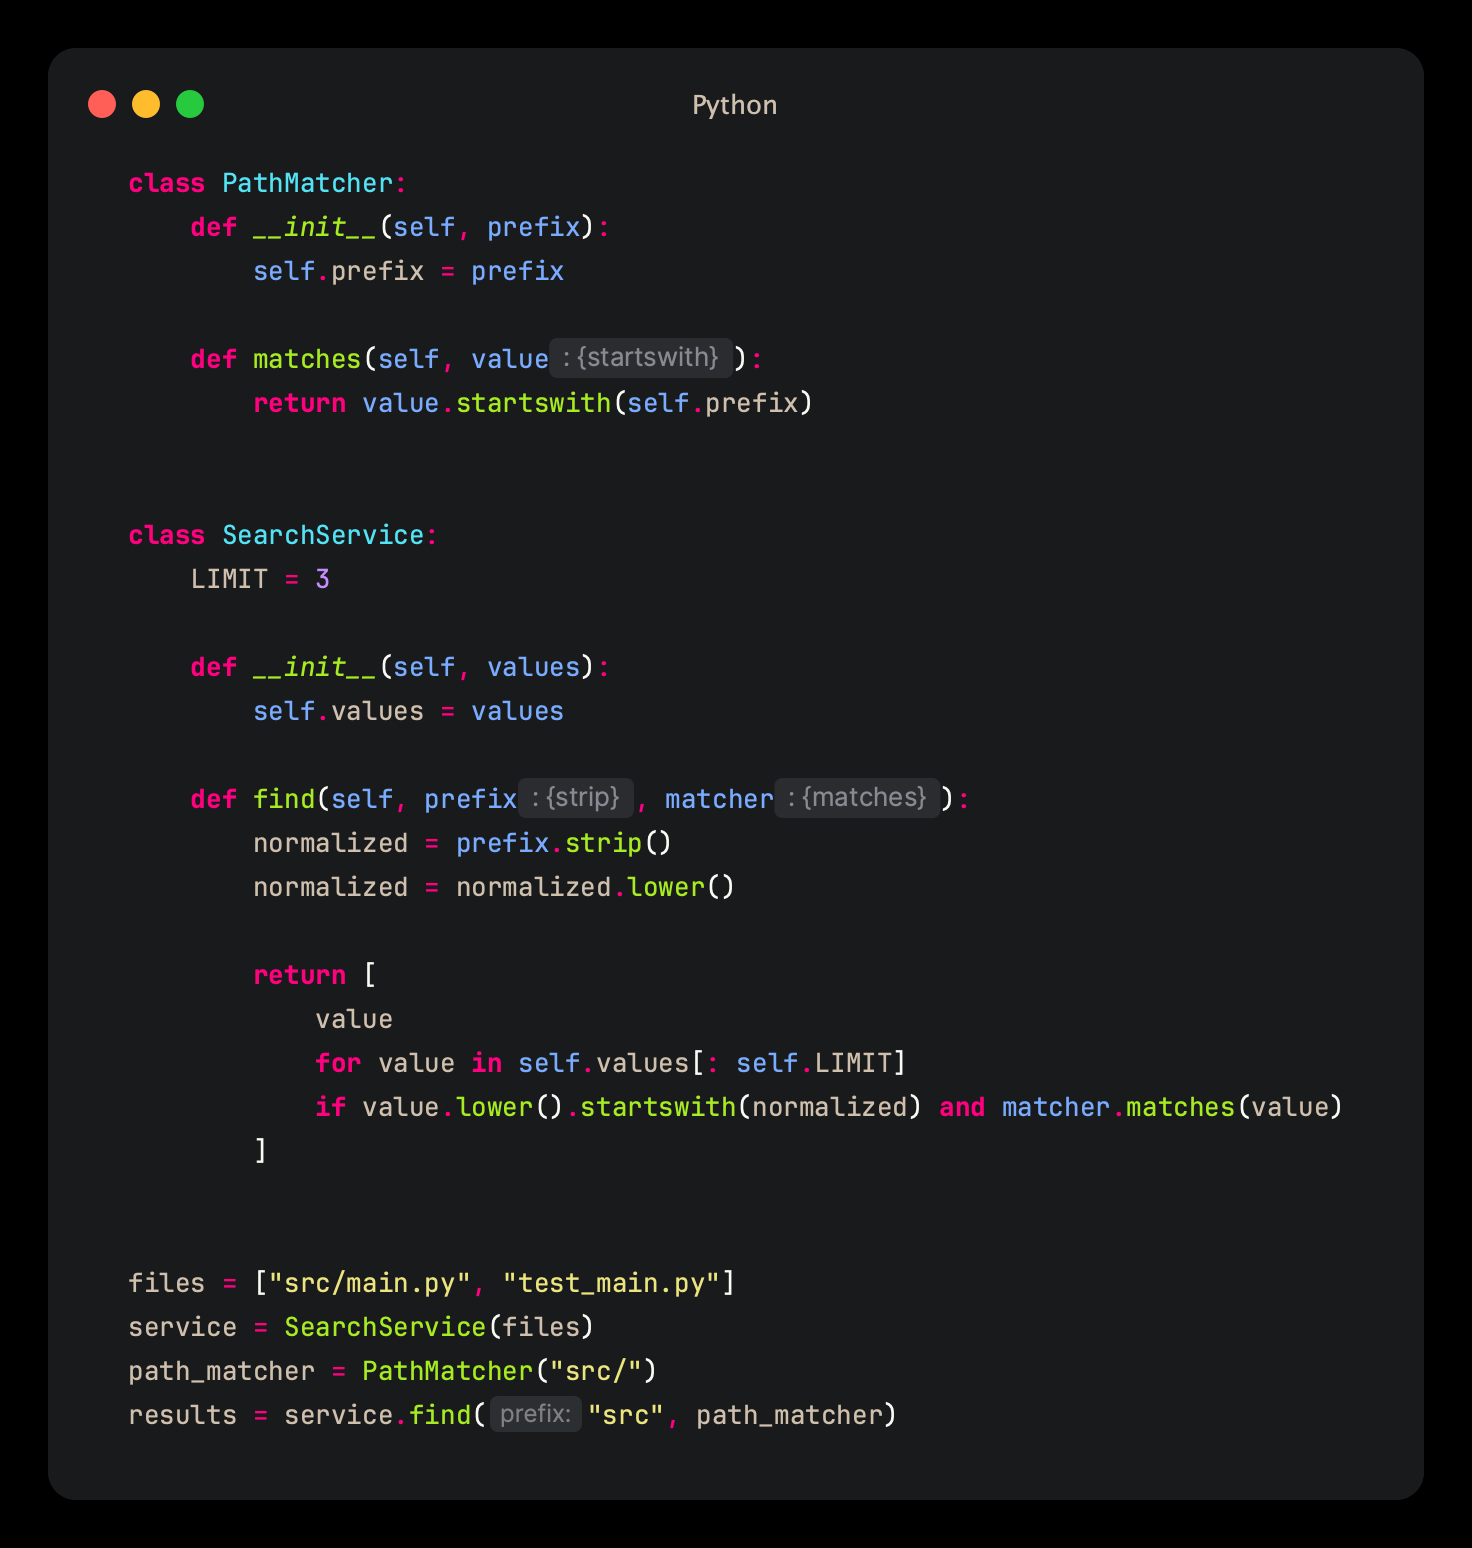
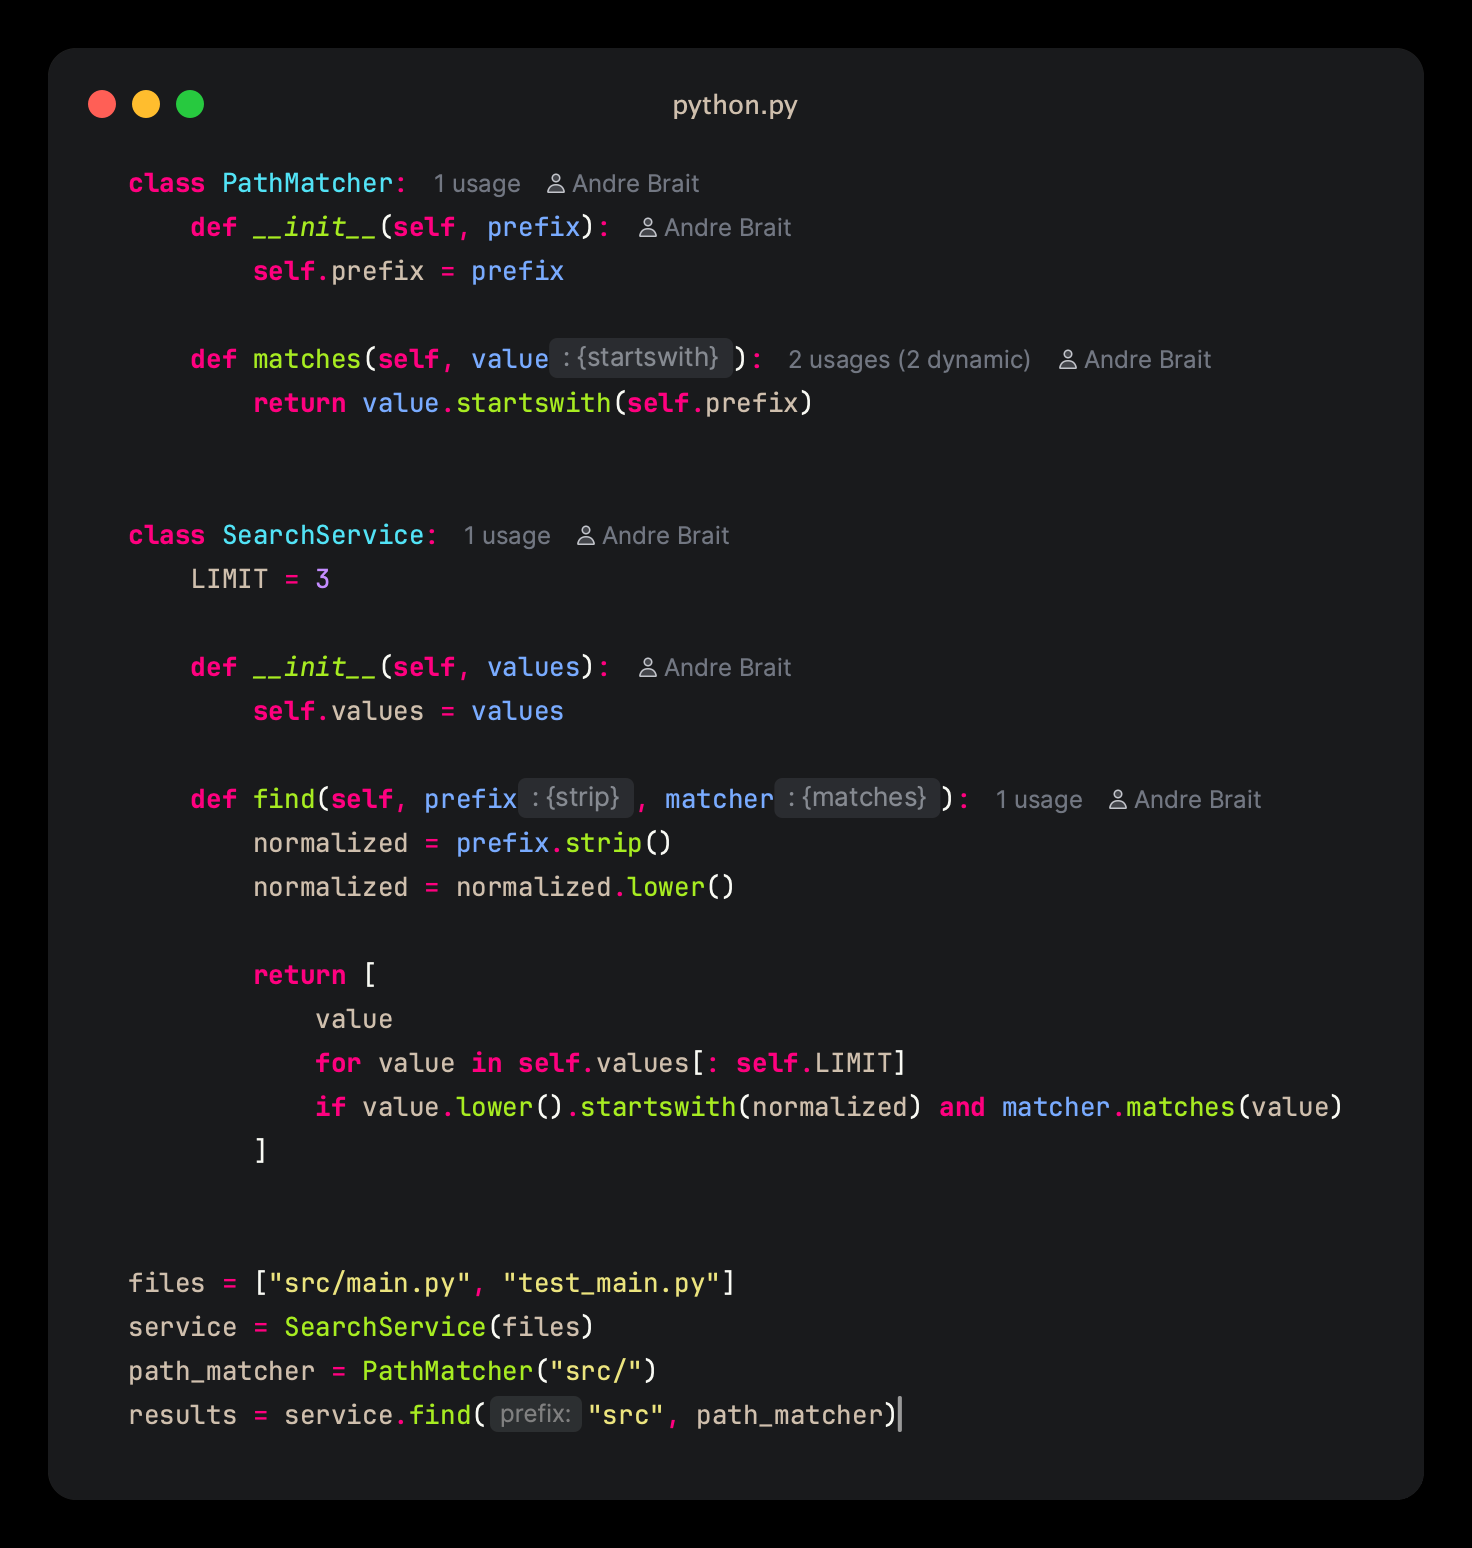
feat: highlight Python receiver parameters

diff --git a/README.md b/README.md
@@ -59,7 +59,7 @@ Kotlin follows the same language-default meanings for types, parameters, variabl
 
 ![Python example using Invariant](docs/images/intellij-python.png)
 
-Python keeps parameters blue, fields neutral, calls green, and reserved names such as `self` pink. Built-in names remain pale blue. Special method calls are green and italic; predefined fields remain neutral and italic.
+Python keeps parameters blue, fields neutral, calls green, and reserved names such as `self` and `cls` pink. Built-in names remain pale blue. Special method calls are green and italic; predefined fields remain neutral and italic.
 
 ## Language support
 
